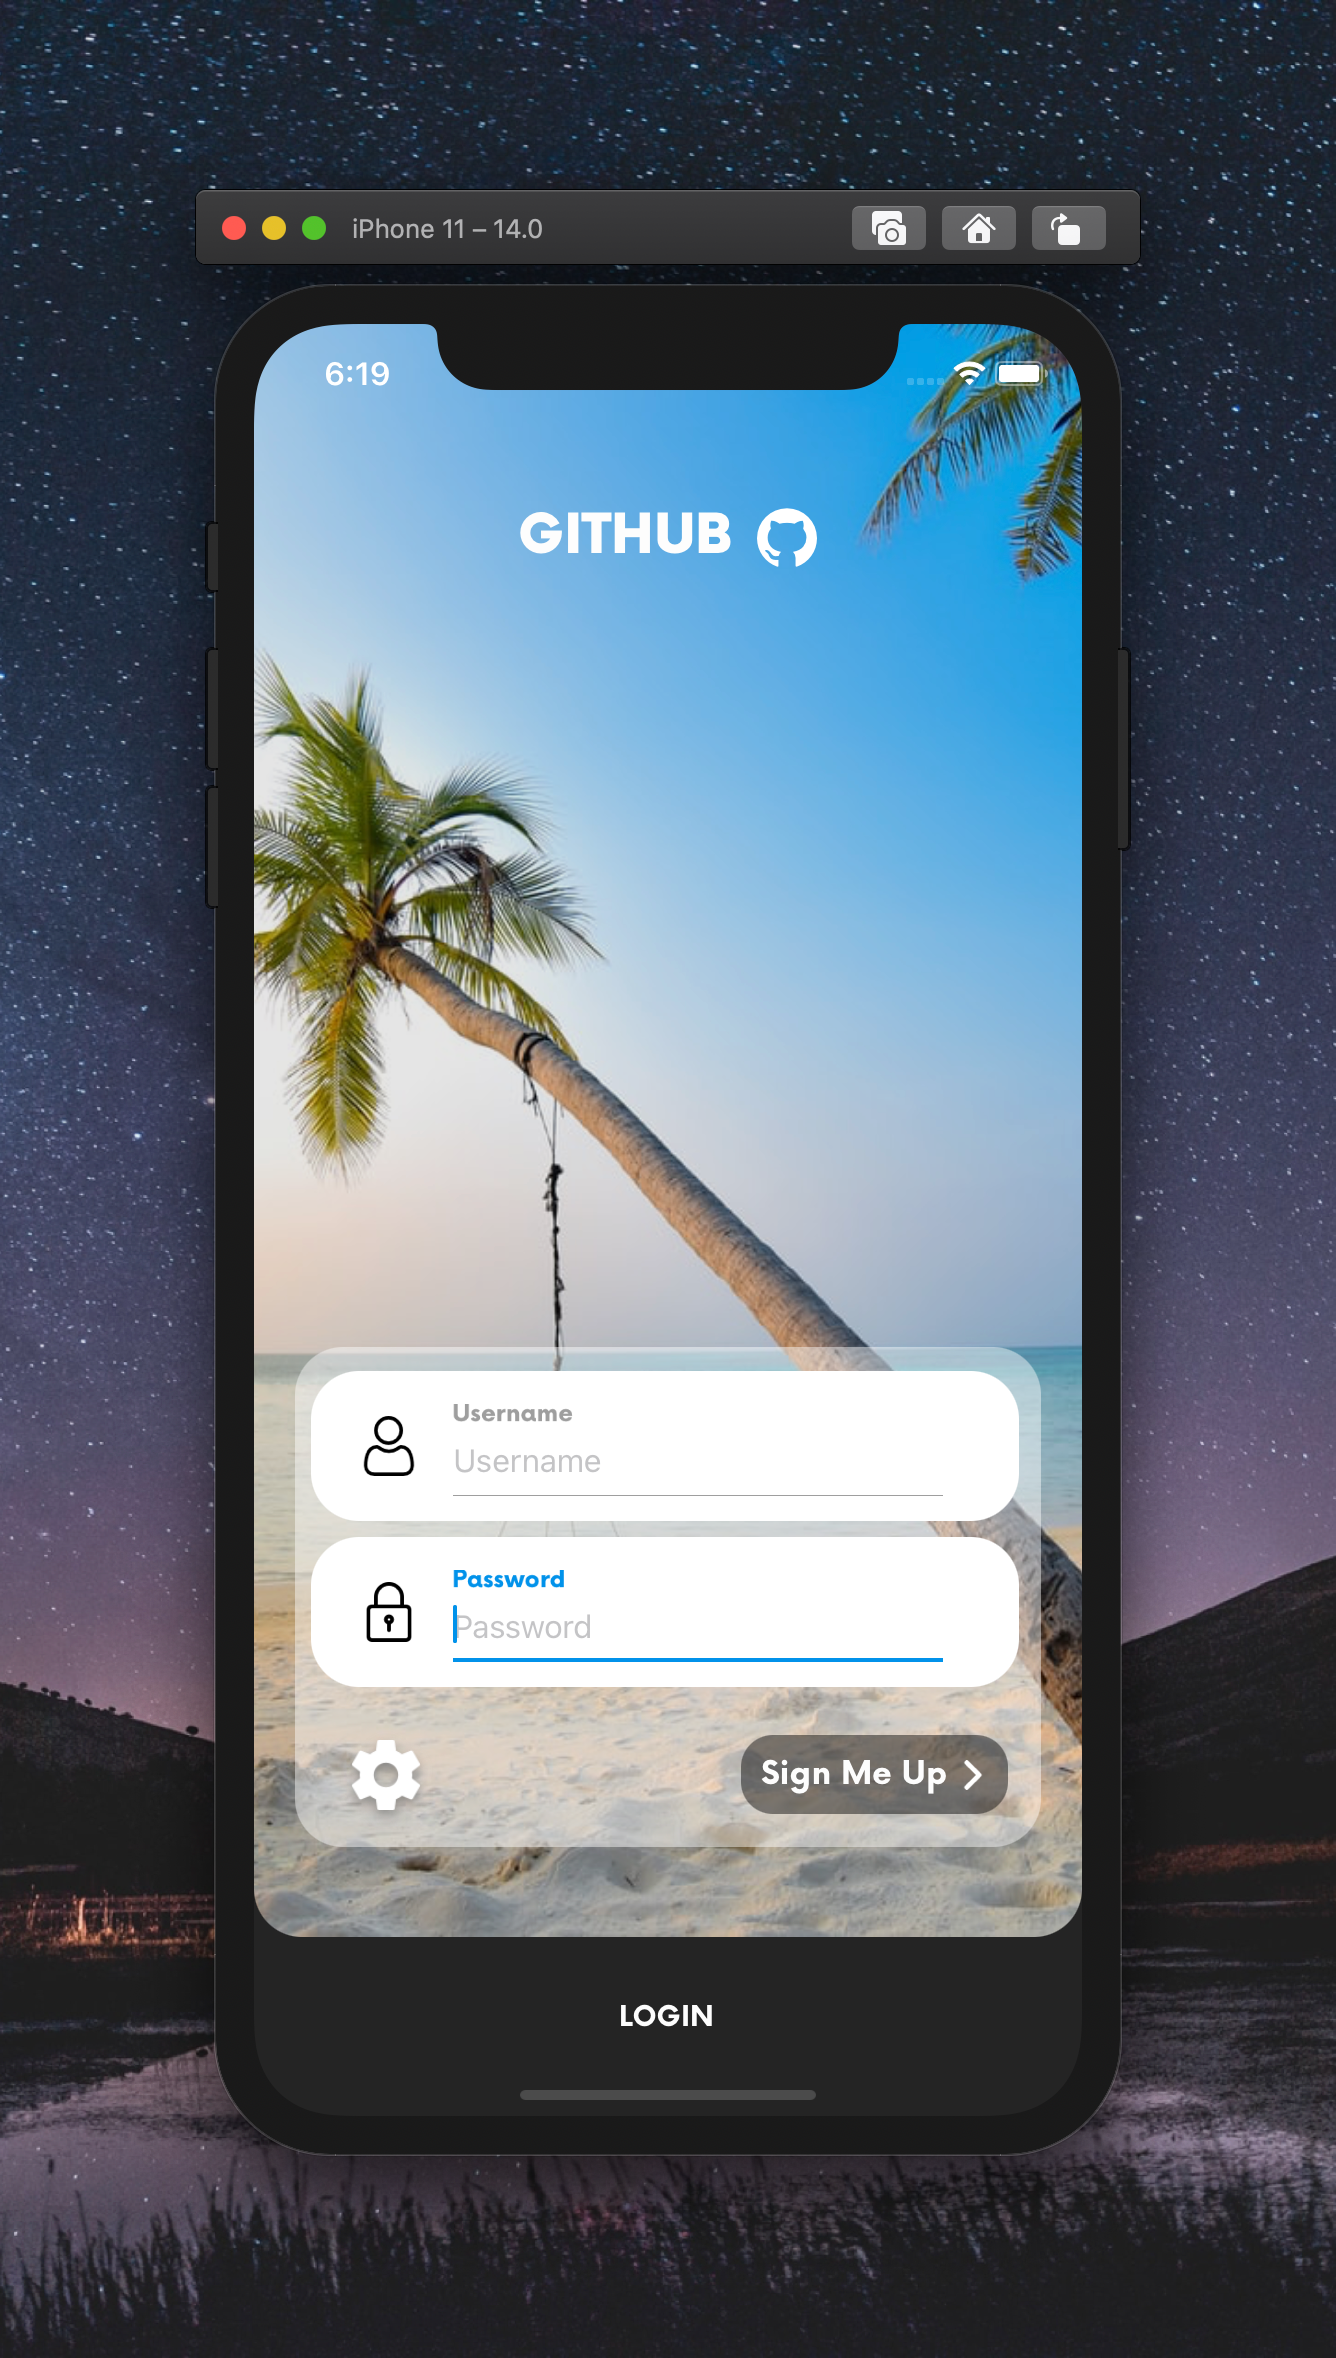
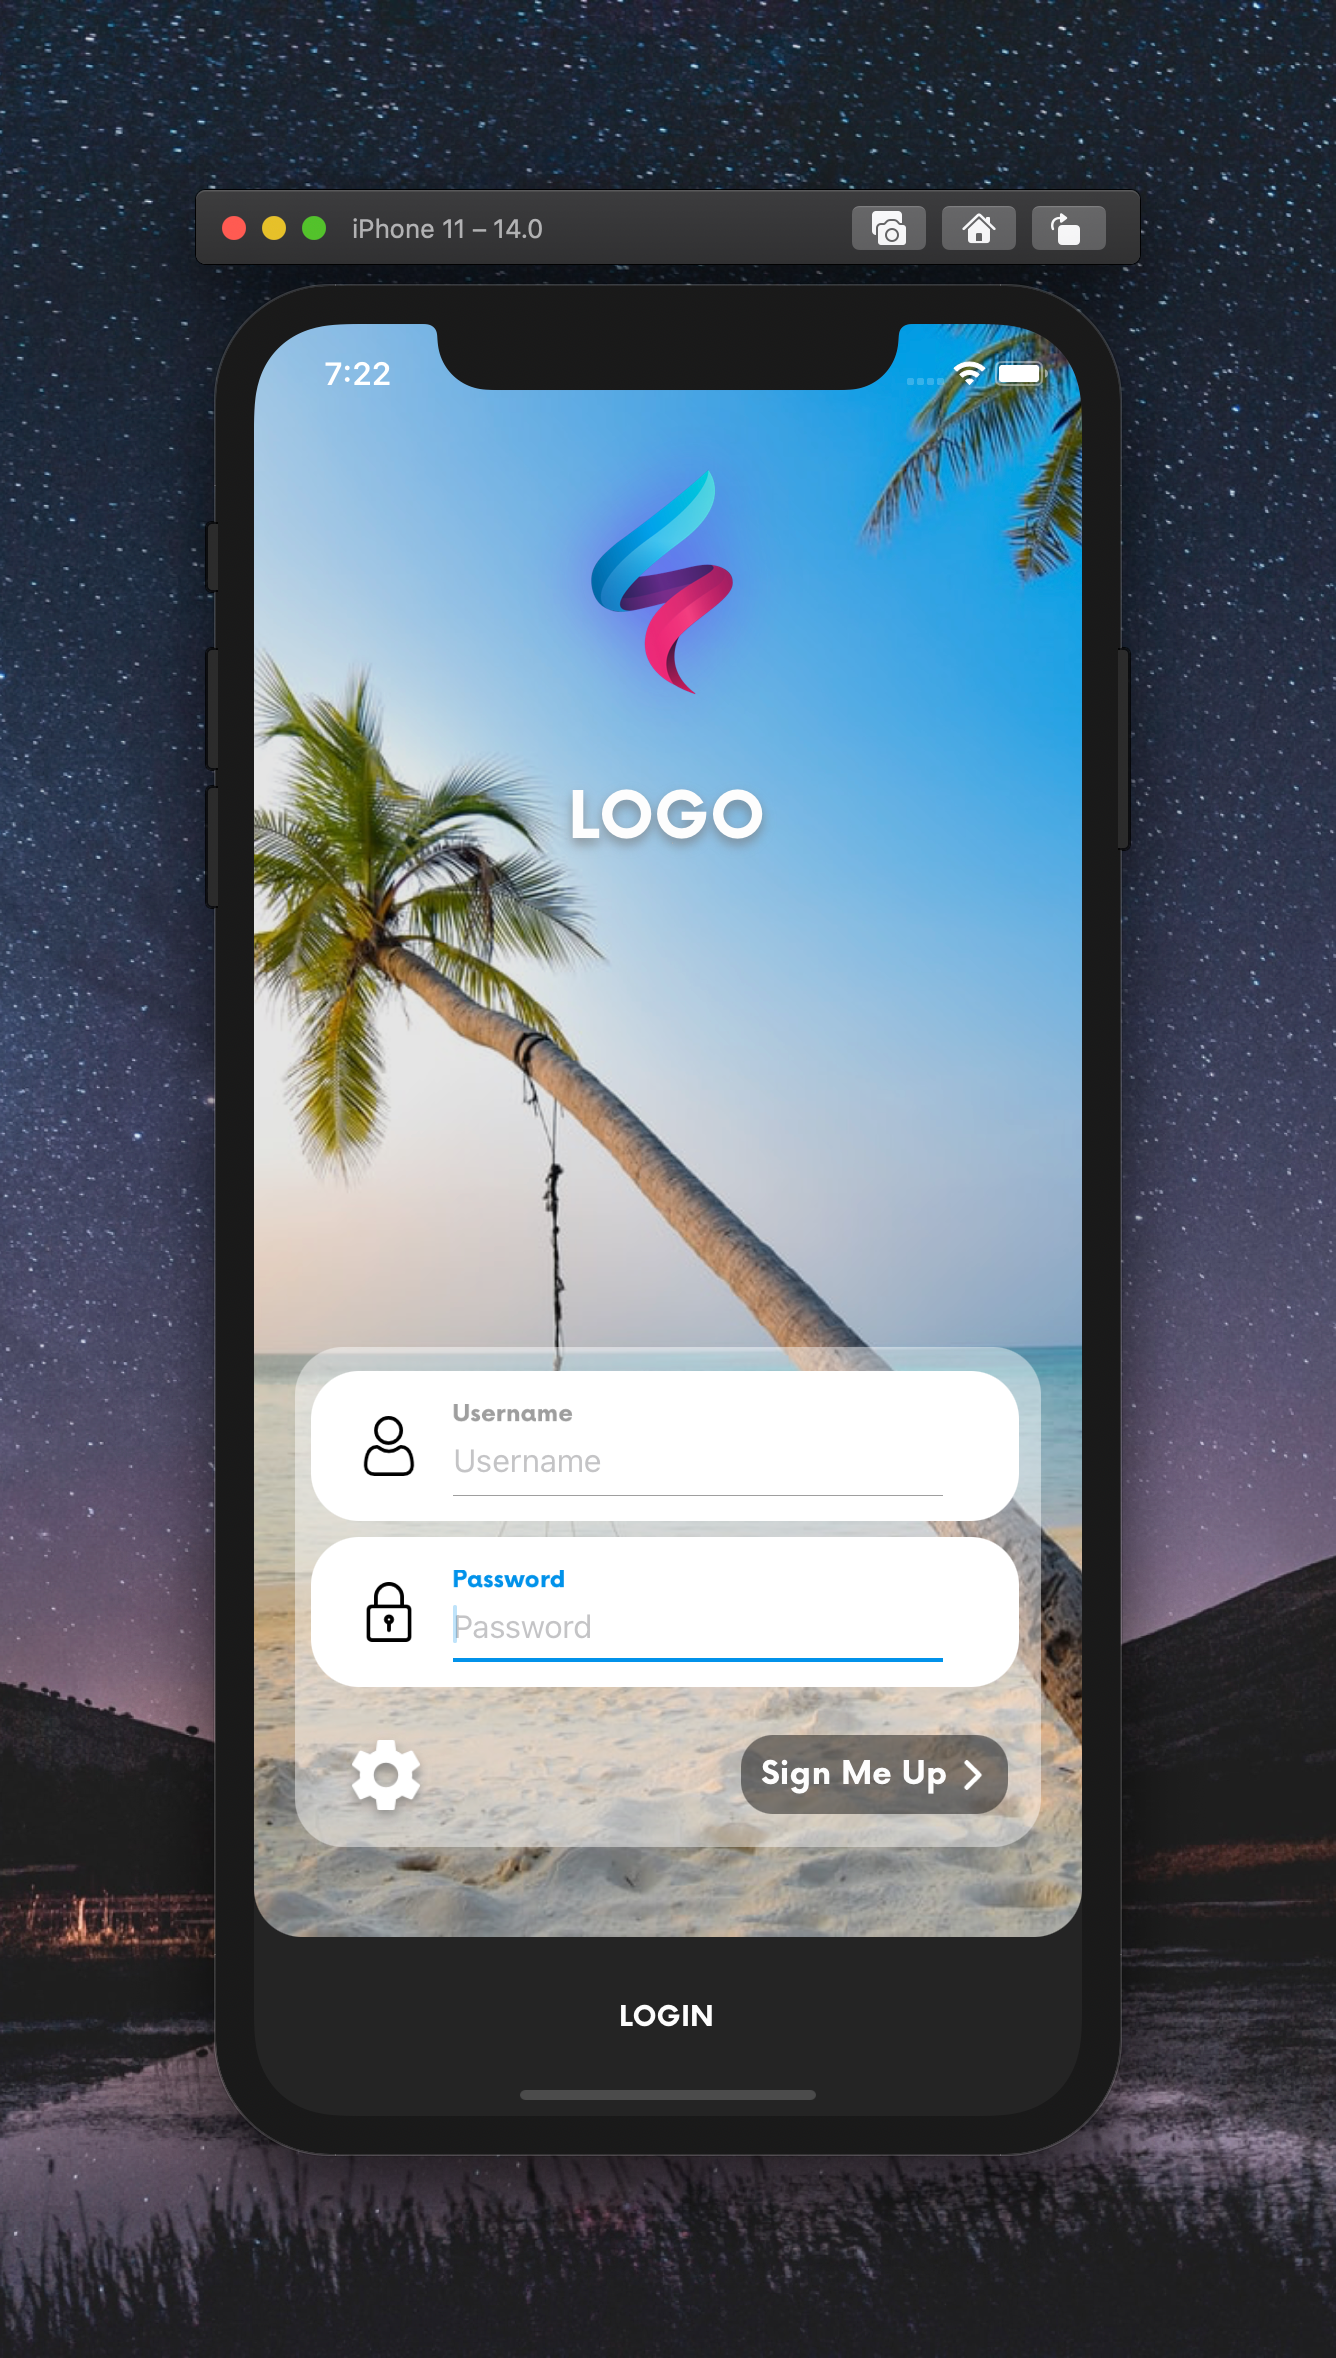
Version 2.1.1 is ready

Changed region(s): [[0.3683, 0.1858, 0.6138, 0.3715], [0.2455, 0.1548, 0.2762, 0.1858]]

diff --git a/example/App.tsx b/example/App.tsx
@@ -1,5 +1,5 @@
 import React, { useState } from "react";
-import { View, StatusBar, Alert } from "react-native";
+import { View, StatusBar, Image, Text } from "react-native";
 import LoginScreen from "react-native-login-screen";
 
 const backgroundImage = {
@@ -12,6 +12,38 @@ const App = () => {
   const [switchValue, setSwitchValue] = useState(false);
   const [spinnerVisibility, setSpinnerVisibility] = useState(false);
 
+  const renderLogo = () => (
+    <View
+      style={{
+        bottom: 50,
+        alignItems: "center",
+        justifyContent: "center",
+      }}
+    >
+      <Image
+        resizeMode="contain"
+        source={require("./assets/logo-example.png")}
+        style={{ height: 250, width: 250 }}
+      />
+      <Text
+        style={{
+          bottom: 32,
+          color: "#fdfdfd",
+          fontFamily: "Now-Bold",
+          fontSize: 32,
+          shadowRadius: 3,
+          shadowOpacity: 0.7,
+          shadowColor: "#757575",
+          shadowOffset: {
+            width: 0,
+            height: 3,
+          },
+        }}
+      >
+        LOGO
+      </Text>
+    </View>
+  );
   return (
     <View>
       <StatusBar barStyle="light-content" />
@@ -23,6 +55,7 @@ const App = () => {
         source={backgroundImage}
         spinnerEnable
         spinnerVisibility={spinnerVisibility}
+        logoComponent={renderLogo()}
         labelTextStyle={{
           color: "#adadad",
           fontFamily: "Now-Bold",

diff --git a/lib/LoginScreen.tsx b/lib/LoginScreen.tsx
@@ -11,20 +11,17 @@ import Spinner from "react-native-spinkit";
 /**
  * ? Local Imports
  */
-import Logo, { ILogoProps } from "./components/Logo/Logo";
 import styles, { container } from "./LoginScreen.style";
 import BottomContainer, {
   IBottomContainerProps,
 } from "./components/BottomContainer/BottomContainer";
 import { ICardProps } from "./components/Card/Card";
 
-export interface ILoginProps
-  extends IBottomContainerProps,
-    ILogoProps,
-    ICardProps {
+export interface ILoginProps extends IBottomContainerProps, ICardProps {
   source?: any;
   loginText?: string;
   spinnerStyle?: any;
+  logoComponent?: any;
   signupText: string;
   spinnerType?: string;
   spinnerSize?: number;
@@ -52,6 +49,7 @@ const LoginScreen = (props: ILoginProps) => {
     spinnerStyle,
     spinnerEnable,
     onPressSignup,
+    logoComponent,
     spinnerVisibility,
     loginButtonTextStyle,
     loginButtonBackgroundColor,
@@ -93,9 +91,7 @@ const LoginScreen = (props: ILoginProps) => {
         >
           <View style={styles.blackoverlay}>
             <SafeAreaView style={styles.safeAreaViewStyle}>
-              <View style={styles.loginContainer}>
-                <Logo {...props} />
-              </View>
+              <View style={styles.logoContainer}>{logoComponent}</View>
               <BottomContainer
                 {...props}
                 cardState={cardState}

diff --git a/lib/LoginScreen.style.ts b/lib/LoginScreen.style.ts
@@ -1,4 +1,4 @@
-import { ViewStyle, ImageStyle, TextStyle, StyleSheet } from "react-native";
+import { ViewStyle, TextStyle, StyleSheet } from "react-native";
 import {
   isAndroid,
   ScreenWidth,
@@ -13,10 +13,10 @@ interface Style {
   imageBackgroundStyle: ViewStyle;
   blackoverlay: ViewStyle;
   safeAreaViewStyle: ViewStyle;
-  loginContainer: ViewStyle;
+  logoContainer: ViewStyle;
 }
 
-export const container = (loginButtonBackgroundColor) => {
+export const container = (loginButtonBackgroundColor: string) => {
   return {
     marginBottom: 32,
     width: ScreenWidth,
@@ -65,7 +65,7 @@ export default StyleSheet.create<Style>({
   safeAreaViewStyle: {
     flex: 1,
   },
-  loginContainer: {
-    marginTop: 24,
+  logoContainer: {
+    marginTop: 12,
   },
 });

diff --git a/lib/components/Card/Card.tsx b/lib/components/Card/Card.tsx
@@ -1,6 +1,6 @@
 import * as React from "react";
 import { View } from "react-native";
-import { TextField } from "react-native-material-textfield";
+import { TextField } from "@freakycoder/react-native-material-textfield";
 /**
  * ? Local Imports
  */

diff --git a/README.md b/README.md
@@ -28,7 +28,8 @@ npm i react-native-login-screen
 
 ```js
 "react-native-spinkit": ">= 1.5.0",
-"react-native-material-textfield": "https://github.com/WrathChaos/react-native-material-textfield.git"
+"@freakycoder/react-native-helpers": ">= 0.1.3",
+"@freakycoder/react-native-material-textfield": ">= 1.0.0"
 ```
 
 ## Import
@@ -105,9 +106,9 @@ Pretty advanced and fully customizable example of login screen
 </LoginScreen>
 ```
 
-### Configuration - Props
+## Configuration - Props
 
-#### Fundamentals
+### Fundamentals
 
 | Property                   |   Type    |    Default     | Description                                                              |
 | -------------------------- | :-------: | :------------: | ------------------------------------------------------------------------ |
@@ -119,7 +120,6 @@ Pretty advanced and fully customizable example of login screen
 | loginButtonBackgroundColor |   color   |    #282828     | change the login button's background color                               |
 | loginText                  |  string   |     LOGIN      | change the login button's text                                           |
 | loginButtonTextStyle       |   style   |    default     | set your own style for the login button's text style                     |
-| logoText                   |  string   |     GITHUB     | change the logo's text                                                   |
 | logoComponent              | component |      Icon      | set your own logo component instead of default Icon                      |
 | spinnerEnable              |   bool    |     false      | set the spinner enable this is **required** to use spinner               |
 | spinnerVisibility          |   bool    |     false      | set the logic for spinner enabling / disabling for the login text button |
@@ -128,12 +128,11 @@ Pretty advanced and fully customizable example of login screen
 | spinnerType                |   bool    |     false      | change the spinner type                                                  |
 | spinnerStyle               |   bool    |     false      | set your own style for the spinner itself                                |
 
-#### Bottom Container Props
+### Bottom Container Props
 
 | Property               |   Type    |        Default         | Description                                                                  |
 | ---------------------- | :-------: | :--------------------: | ---------------------------------------------------------------------------- |
 | placeholder            |  string   |        default         | set the placeholder of the text input with both title and placeholder itself |
-| IconComponent          | component |          Icon          | set your own component instead of vector-icons' Icon component               |
 | backgroundColor        |   color   | rgba(255,255,255,0.45) | change the bottom container's background color                               |
 | disableSettings        |  boolean  |         false          | disable the settings button if you do not want it                            |
 | disableSignupButton    |  boolean  |         false          | disable the signup button if you do not want it                              |
@@ -271,7 +270,9 @@ Pretty advanced and fully customizable example of login screen
 - [x] ~~Android Design Bug Fixes~~
 - [x] ~~Configuration - Props COMING SOON~~
 - [x] ~~Typescript Challenge!~~
-- [ ] Remove some dependencies
+- [x] ~~Remove some dependencies~~
+- [ ] ImageComponent Feature Option
+- [ ] Better TextField Library Integration
 - [ ] Write an article about the lib on Medium
 
 ## Credits
